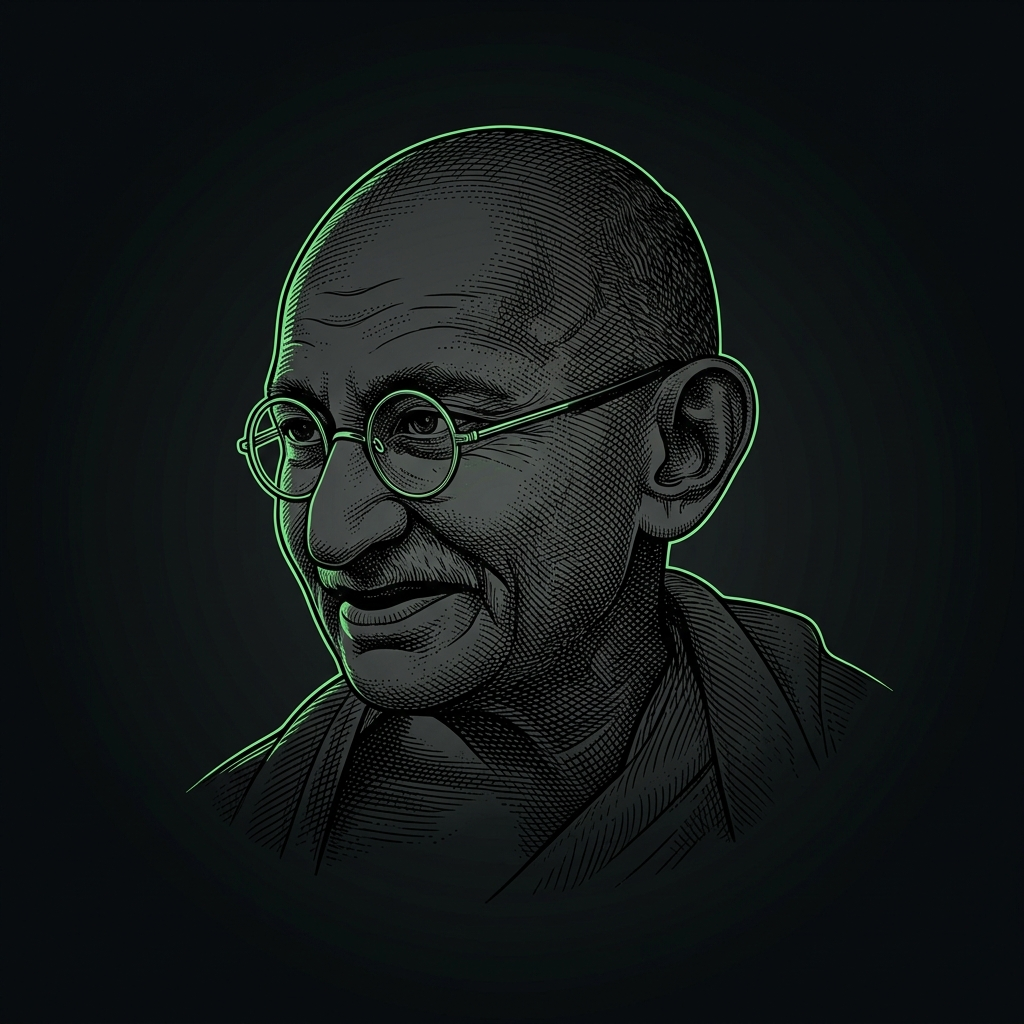
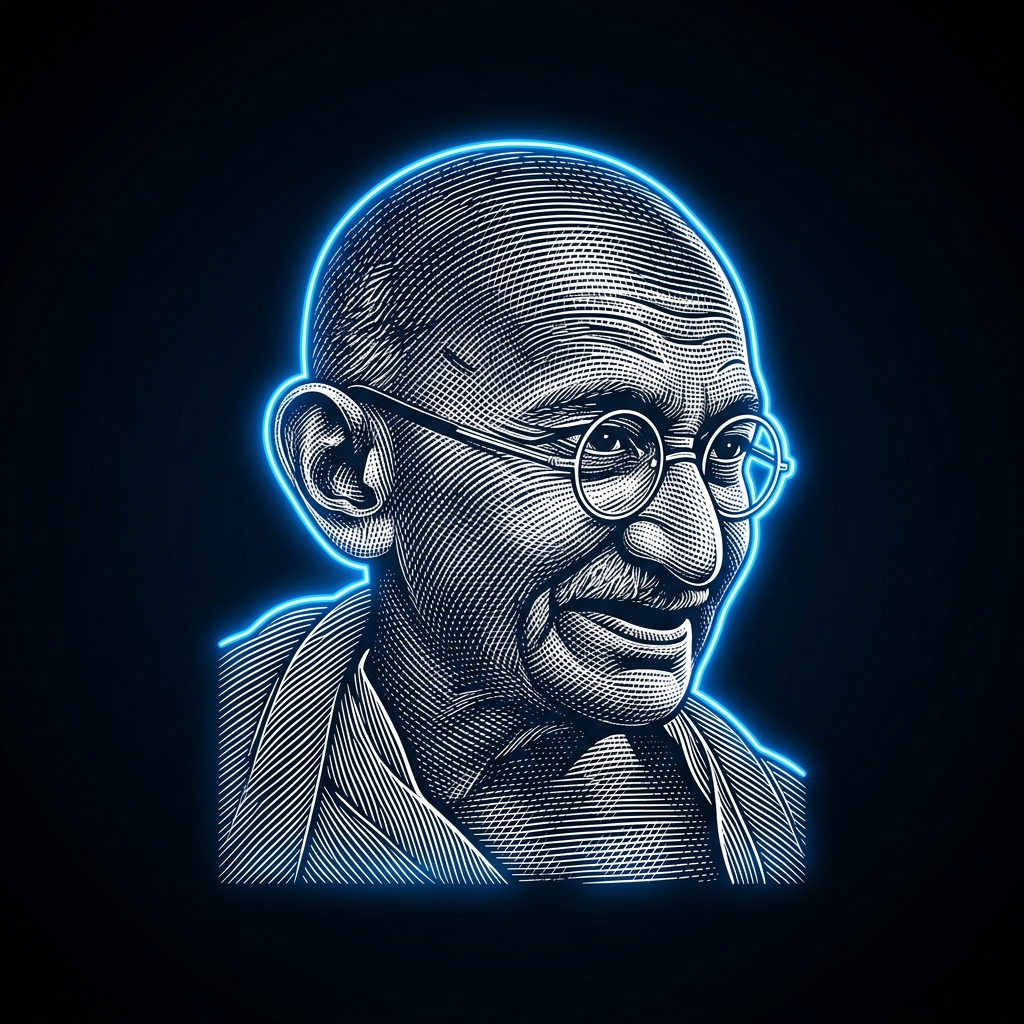
feat: switch whole app theme to Google Play electric blue palette

diff --git a/lib/views/pos_checkout_view.dart b/lib/views/pos_checkout_view.dart
@@ -614,91 +614,91 @@ class PosCheckoutViewState extends State<PosCheckoutView> {
                                       isDense: true,
                                       contentPadding: EdgeInsets.zero,
                                       hintText: '0',
-                                  hintStyle: TextStyle(
-                                    color: Color(0xFF383B46),
+                                      hintStyle: TextStyle(
+                                        color: Color(0xFF383B46),
+                                      ),
+                                    ),
+                                    onChanged: (_) {
+                                      _selectedPresetTitle = 'CUSTOM BILL';
+                                      _recalculateOrder();
+                                    },
                                   ),
                                 ),
-                                onChanged: (_) {
-                                  _selectedPresetTitle = 'CUSTOM BILL';
-                                  _recalculateOrder();
-                                },
+                              ],
+                            ),
+
+                            const SizedBox(height: 14),
+
+                            // CRED NeoPOP Preset Buttons
+                            SingleChildScrollView(
+                              scrollDirection: Axis.horizontal,
+                              child: Row(
+                                children: _kiranaPresets.map((preset) {
+                                  final isSelected =
+                                      _amountController.text ==
+                                      preset.amount.toStringAsFixed(0);
+                                  return Padding(
+                                    padding: const EdgeInsets.only(right: 8),
+                                    child: NeoPopButton(
+                                      color: isSelected
+                                          ? Colors.white
+                                          : AppColors.surfaceElevated,
+                                      border: Border.all(
+                                        color: isSelected
+                                            ? Colors.white
+                                            : AppColors.neoBorder,
+                                        width: 1.2,
+                                      ),
+                                      depth: 2,
+                                      onTapUp: () {
+                                        _amountController.text = preset.amount
+                                            .toStringAsFixed(0);
+                                        _selectedPresetTitle = preset.title;
+                                        _recalculateOrder();
+                                      },
+                                      child: Padding(
+                                        padding: const EdgeInsets.symmetric(
+                                          horizontal: 10,
+                                          vertical: 8,
+                                        ),
+                                        child: Row(
+                                          children: [
+                                            Text(
+                                              preset.title,
+                                              style: TextStyle(
+                                                fontSize: 10,
+                                                fontWeight: FontWeight.w900,
+                                                letterSpacing: 0.5,
+                                                color: isSelected
+                                                    ? Colors.black
+                                                    : Colors.white,
+                                              ),
+                                            ),
+                                            const SizedBox(width: 6),
+                                            Text(
+                                              '₹${preset.amount.toStringAsFixed(0)}',
+                                              style: TextStyle(
+                                                fontSize: 10,
+                                                fontWeight: FontWeight.w900,
+                                                color: isSelected
+                                                    ? Colors.black
+                                                    : AppColors.primaryGreen,
+                                              ),
+                                            ),
+                                          ],
+                                        ),
+                                      ),
+                                    ),
+                                  );
+                                }).toList(),
                               ),
                             ),
                           ],
                         ),
-
-                        const SizedBox(height: 14),
-
-                        // CRED NeoPOP Preset Buttons
-                        SingleChildScrollView(
-                          scrollDirection: Axis.horizontal,
-                          child: Row(
-                            children: _kiranaPresets.map((preset) {
-                              final isSelected =
-                                  _amountController.text ==
-                                  preset.amount.toStringAsFixed(0);
-                              return Padding(
-                                padding: const EdgeInsets.only(right: 8),
-                                child: NeoPopButton(
-                                  color: isSelected
-                                      ? Colors.white
-                                      : AppColors.surfaceElevated,
-                                  border: Border.all(
-                                    color: isSelected
-                                        ? Colors.white
-                                        : AppColors.neoBorder,
-                                    width: 1.2,
-                                  ),
-                                  depth: 2,
-                                  onTapUp: () {
-                                    _amountController.text = preset.amount
-                                        .toStringAsFixed(0);
-                                    _selectedPresetTitle = preset.title;
-                                    _recalculateOrder();
-                                  },
-                                  child: Padding(
-                                    padding: const EdgeInsets.symmetric(
-                                      horizontal: 10,
-                                      vertical: 8,
-                                    ),
-                                    child: Row(
-                                      children: [
-                                        Text(
-                                          preset.title,
-                                          style: TextStyle(
-                                            fontSize: 10,
-                                            fontWeight: FontWeight.w900,
-                                            letterSpacing: 0.5,
-                                            color: isSelected
-                                                ? Colors.black
-                                                : Colors.white,
-                                          ),
-                                        ),
-                                        const SizedBox(width: 6),
-                                        Text(
-                                          '₹${preset.amount.toStringAsFixed(0)}',
-                                          style: TextStyle(
-                                            fontSize: 10,
-                                            fontWeight: FontWeight.w900,
-                                            color: isSelected
-                                                ? Colors.black
-                                                : AppColors.primaryGreen,
-                                          ),
-                                        ),
-                                      ],
-                                    ),
-                                  ),
-                                ),
-                              );
-                            }).toList(),
-                          ),
-                        ),
-                      ],
-                    ),
+                      ),
+                    ],
                   ),
-                ],
-              ),
-            ),
+                ),
 
                 const SizedBox(height: 14),
 
@@ -814,7 +814,7 @@ class PosCheckoutViewState extends State<PosCheckoutView> {
                             horizontal: 10,
                             vertical: 8,
                           ),
-                          color: const Color(0xFF16281D),
+                          color: AppColors.blueSurface,
                           child: Row(
                             children: [
                               Container(
@@ -823,10 +823,14 @@ class PosCheckoutViewState extends State<PosCheckoutView> {
                                 decoration: BoxDecoration(
                                   borderRadius: BorderRadius.circular(4),
                                   border: Border.all(
-                                    color: AppColors.primaryGreen.withAlpha(120),
+                                    color: AppColors.primaryGreen.withAlpha(
+                                      120,
+                                    ),
                                   ),
                                   image: const DecorationImage(
-                                    image: AssetImage('assets/images/gandhi_currency.png'),
+                                    image: AssetImage(
+                                      'assets/images/gandhi_currency.png',
+                                    ),
                                     fit: BoxFit.cover,
                                   ),
                                 ),

diff --git a/lib/theme/app_theme.dart b/lib/theme/app_theme.dart
@@ -11,16 +11,19 @@ class AppColors {
   static const Color neoBorder = Color(0xFF383B46);
   static const Color hardShadow = Color(0xFF000000);
 
-  // CRED High-Contrast Neon Highlights
-  static const Color primaryGreen = Color(0xFF00E676); // High-voltage emerald
-  static const Color greenDark = Color(0xFF00A859);
+  // Google Play & GPay Electric Blue Palette
+  static const Color primaryBlue = Color(0xFF0084FF); // Electric Google Blue
+  static const Color primaryBlueDark = Color(0xFF1A73E8); // Classic Google Material Blue
+  static const Color primaryGreen = primaryBlue; // Seamless alias for whole-app blue theme
+  static const Color greenDark = primaryBlueDark;
+  static const Color blueSurface = Color(0xFF0E1E38); // Midnight blue container tint
   static const Color neonCyan = Color(0xFF00E5FF);
-  static const Color electricPurple = Color(0xFFD500F9);
+  static const Color electricPurple = Color(0xFF7C4DFF);
   static const Color goldenYellow = Color(0xFFFFD600);
   static const Color alertRed = Color(0xFFFF1744);
   static const Color pureWhite = Color(0xFFFFFFFF);
 
-  // CRED Typographic Hierarchy
+  // CRED & Google Typographic Hierarchy
   static const Color textPrimary = Color(0xFFFFFFFF);
   static const Color textSecondary = Color(0xFF8A8F9E);
   static const Color textMuted = Color(0xFF555A68);
@@ -31,9 +34,9 @@ class AppTheme {
     return ThemeData(
       brightness: Brightness.dark,
       scaffoldBackgroundColor: AppColors.background,
-      primaryColor: AppColors.primaryGreen,
+      primaryColor: AppColors.primaryBlue,
       colorScheme: const ColorScheme.dark(
-        primary: AppColors.primaryGreen,
+        primary: AppColors.primaryBlue,
         secondary: AppColors.neonCyan,
         surface: AppColors.surface,
         error: AppColors.alertRed,

diff --git a/lib/widgets/splitpe_logo.dart b/lib/widgets/splitpe_logo.dart
@@ -29,7 +29,7 @@ class SplitPeLogo extends StatelessWidget {
             border: Border.all(color: AppColors.primaryGreen, width: 1.2),
             boxShadow: const [
               BoxShadow(
-                color: Color(0x6600E676),
+                color: Color(0x660084FF),
                 offset: Offset(2.0, 2.0),
                 blurRadius: 0,
               ),
@@ -46,7 +46,7 @@ class SplitPeLogo extends StatelessWidget {
                   style: TextStyle(
                     fontSize: size * 0.65,
                     fontWeight: FontWeight.w900,
-                    color: AppColors.primaryGreen,
+                    color: AppColors.primaryBlue,
                   ),
                 ),
               );
@@ -72,7 +72,7 @@ class SplitPeLogo extends StatelessWidget {
               Text(
                 'PE',
                 style: TextStyle(
-                  color: AppColors.primaryGreen,
+                  color: AppColors.primaryBlue,
                   fontWeight: FontWeight.w900,
                   fontSize: size * 0.68,
                   letterSpacing: 0.5,
@@ -85,8 +85,8 @@ class SplitPeLogo extends StatelessWidget {
             Container(
               padding: const EdgeInsets.symmetric(horizontal: 6, vertical: 2),
               decoration: BoxDecoration(
-                color: const Color(0xFF16281D),
-                border: Border.all(color: AppColors.primaryGreen, width: 1.0),
+                color: AppColors.blueSurface,
+                border: Border.all(color: AppColors.primaryBlue, width: 1.0),
               ),
               child: const Text(
                 '0% MDR',

diff --git a/lib/widgets/split_checkout_modal.dart b/lib/widgets/split_checkout_modal.dart
@@ -316,7 +316,7 @@ class _SplitCheckoutDialogState extends State<SplitCheckoutDialog> {
                         width: double.infinity,
                         padding: const EdgeInsets.symmetric(vertical: 12),
                         decoration: BoxDecoration(
-                          color: const Color(0xFF16251C),
+                          color: AppColors.blueSurface,
                           borderRadius: BorderRadius.circular(12),
                           border: Border.all(color: AppColors.primaryGreen.withAlpha(80)),
                         ),

diff --git a/lib/widgets/clout_share_modal.dart b/lib/widgets/clout_share_modal.dart
@@ -168,7 +168,7 @@ class CloutShareModal extends StatelessWidget {
                   Container(
                     padding: const EdgeInsets.symmetric(horizontal: 10, vertical: 8),
                     decoration: BoxDecoration(
-                      color: const Color(0xFF16251C),
+                      color: AppColors.blueSurface,
                       borderRadius: BorderRadius.circular(10),
                       border: Border.all(color: AppColors.primaryGreen.withAlpha(60)),
                     ),
